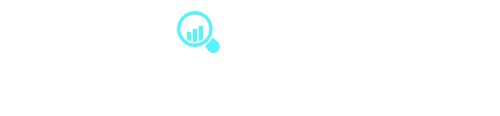
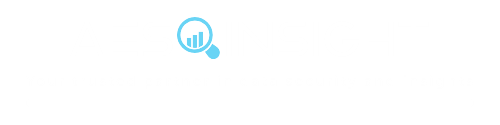
less in-your-face colors

Changed region(s): [[0.33, 0.0776, 0.45, 0.4914]]

diff --git a/src/components/ui/header.tsx b/src/components/ui/header.tsx
@@ -8,7 +8,7 @@ import {
 
 const Header: React.FC = () => {
 	return (
-		<header className="bg-gradient-to-r from-sky-800 to-cyan-500 flex items-center justify-between h-16 w-auto border-b-2 border-black">
+		<header className="bg-gradient-to-r from-sky-800 to-cyan-600 flex items-center justify-between h-16 w-auto border-b-2 border-black">
 			{/* Logo */}
 			<img
 				src="../../public/aesinsight.png"
